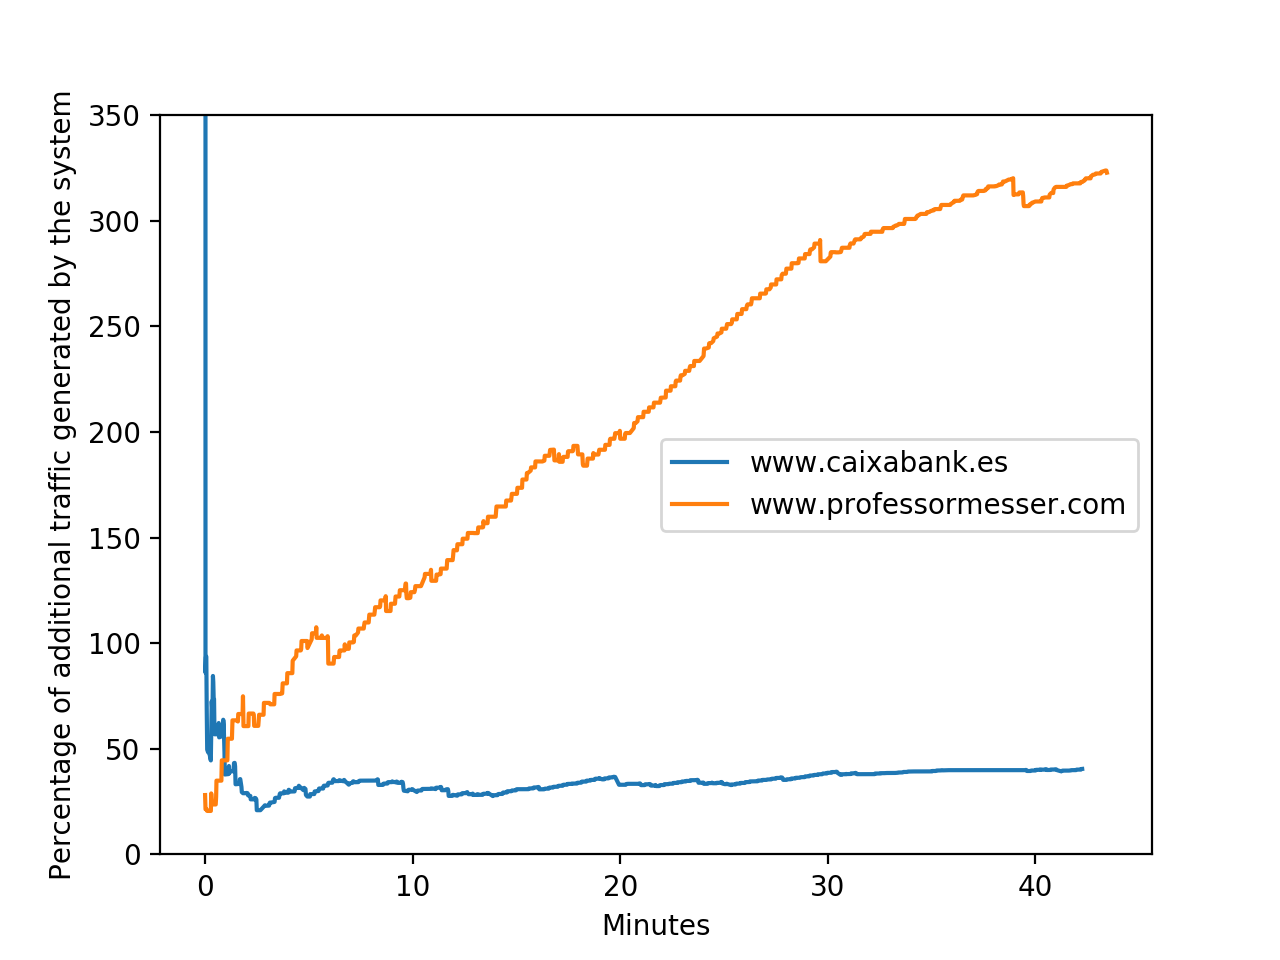
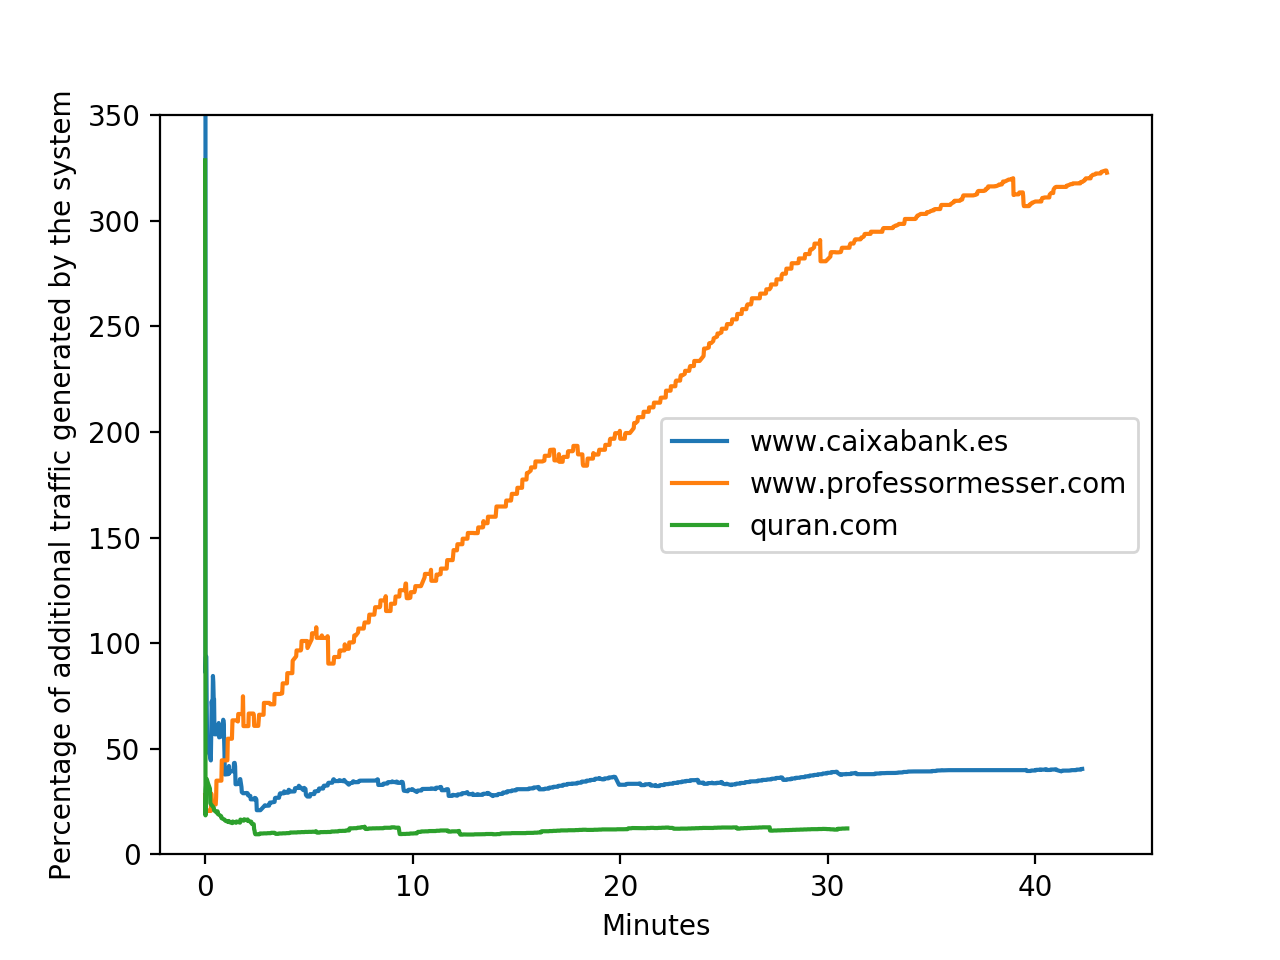
images

Changed region(s): [[0.5, 0.4375, 0.875, 0.5938], [0.1562, 0.1875, 0.6562, 0.875]]

diff --git a/dissertation/scripts/generate_graphs.py b/dissertation/scripts/generate_graphs.py
@@ -7,30 +7,36 @@ OUTPUT_DIR = '../imgs'
 OUTPUT_FILE = '/netword_usage_plot.png'
 
 files = {
-    'caixabank': 'www.caixabank.es',
-    'professormesser': 'www.professormesser.com',
-    'quran': 'quran.com',
-    'libertatea': 'www.libertatea.ro',
+    'caixabank_fixed_long': 'www.caixabank.es',
+    'professormesser_fixed_long': 'www.professormesser.com',
+    'quran_fixed_long': 'quran.com',
+    'libertatea_fixed_long': 'www.libertatea.ro',
 }
 
 fig, ax = plt.subplots()
 
 for f in files:
     with open(INPUT_DIR+'/'+f, 'r') as file:
-        data = []
+        ys = []
+        xs = []
+        start = 0
         for line in file:
             if line[0:6] == 'Total:':
                 splits = line.strip().split('\t')
                 try :
-                    dpoint = float(splits[2][splits[2].index(':')+2:splits[2].index('%')])
+                    dpoint = float(splits[2][splits[2].index(':')+2:])
+                    time = float(splits[3][splits[3].index(':')+2:]) / 1000.0 / 60.0
                     if not np.isnan(dpoint):
-                        data.append(dpoint/(1.0-dpoint)*100.0)
+                        ys.append(dpoint/(1.0-dpoint)*100.0)
+                        if start == 0:
+                            start = time
+                        xs.append(time - start)
                 except :
+                    print('error')
                     pass
-        x = np.linspace(0, 0.2*len(data), len(data))
-        plt.plot(x, data, label=files[f]) 
+        plt.plot(xs, ys, label=files[f]) 
 
-plt.xlabel('Seconds')
+plt.xlabel('Minutes')
 plt.ylabel('Percentage of additional traffic generated by the system')
 plt.yscale('log')
 
@@ -38,9 +44,37 @@ ax.yaxis.set_major_formatter(ScalarFormatter())
 
 plt.legend(loc='center right')
 
-plt.xlim(0, 36)
+#plt.ylim(0,350)
 
 plt.savefig(OUTPUT_DIR + OUTPUT_FILE, dpi=200)
+
+# fig, ax = plt.subplots()
+# 
+# for f in files:
+#     with open(INPUT_DIR+'/'+f, 'r') as file:
+#         data = []
+#         for line in file:
+#             if line[0:6] == 'Total:':
+#                 splits = line.strip().split('\t')
+#                 try :
+#                     dpoint = float(splits[2][splits[2].index(':')+2:splits[2].index('%')])
+#                     if not np.isnan(dpoint):
+#                         data.append(dpoint/(1.0-dpoint)*100.0)
+#                 except :
+#                     pass
+#         x = np.linspace(0, 0.2*len(data), len(data))
+#         plt.plot(x, data, label=files[f]) 
+# 
+# plt.xlabel('Seconds')
+# plt.ylabel('Percentage of additional traffic generated by the system')
+# 
+# ax.yaxis.set_major_formatter(ScalarFormatter())
+# 
+# plt.legend(loc='center right')
+# 
+# plt.xlim(0, 36)
+# 
+# plt.savefig(OUTPUT_DIR + OUTPUT_FILE, dpi=200)
 
 
 

diff --git a/dissertation/evaluation.tex b/dissertation/evaluation.tex
@@ -346,11 +346,22 @@ Despite poor performace on these selected hosts, the work done in this paper can
 Ceixabank was used to see what an exaple of potentially such website could be, as customers of a bank would expect utmost security, especially after logging into their online services.
 Even though they may use a different subdomain after a user is logged in, it is still disappointing to see \texttt{eval} function being commonly used.
 
+% TODO about traffic and what percentage of it are reports
 
 \begin{figure}[h]
 	\centering
 	\includegraphics[width=\textwidth]{imgs/netword_usage_plot.png}
-	\caption{Percentage of bandwidth dedicated to additional traffic generated by my policymaker}
+	\includegraphics[width=\textwidth]{imgs/netword_usage_long_plot.png}
+	\caption{Percentage of bandwidth dedicated to additional traffic generated by the Policy Maker using default settings}
+	\label{standarUsage}
+\end{figure}
+
+\begin{figure}[h]
+	\centering
+	\includegraphics[width=\textwidth]{imgs/netword_usage_bypass.png}
+	\includegraphics[width=\textwidth]{imgs/netword_usage_long_bypass.png}
+	\caption{Percentage of bandwidth dedicated to additional traffic generated by the Policy Maker when bypassing Google scripts}
+	\label{bypassedUsage}
 \end{figure}
 
 

diff --git a/dissertation/scripts/generate_bypass.py b/dissertation/scripts/generate_bypass.py
@@ -4,12 +4,13 @@ import numpy as np
 
 INPUT_DIR = '../../node/run_logs'
 OUTPUT_DIR = '../imgs'
-OUTPUT_FILE = '/netword_usage_long_plot.png'
+OUTPUT_FILE = '/netword_usage_bypass.png'
 
 files = {
-    'caixabank_fixed_long': 'www.caixabank.es',
-    'professormesser_fixed_long': 'www.professormesser.com',
-    'quran_fixed_long': 'quran.com',
+    'caixabank_fixed_long_bypass': 'www.caixabank.es',
+    'professormesser_fixed_long_bypass': 'www.professormesser.com',
+    'quran_fixed_long_bypass': 'quran.com',
+    'libertatea_fixed_long_bypass': 'www.libertatea.ro',
 }
 
 fig, ax = plt.subplots()
@@ -37,14 +38,11 @@ for f in files:
 
 plt.xlabel('Minutes')
 plt.ylabel('Percentage of additional traffic generated by the system')
+plt.yscale('log')
 
 ax.yaxis.set_major_formatter(ScalarFormatter())
 
 plt.legend(loc='center right')
 
-plt.ylim(0,350)
-
 plt.savefig(OUTPUT_DIR + OUTPUT_FILE, dpi=200)
-
-
 

diff --git a/dissertation/scripts/generate_long_byapss.py b/dissertation/scripts/generate_long_byapss.py
@@ -4,12 +4,12 @@ import numpy as np
 
 INPUT_DIR = '../../node/run_logs'
 OUTPUT_DIR = '../imgs'
-OUTPUT_FILE = '/netword_usage_long_plot.png'
+OUTPUT_FILE = '/netword_usage_long_bypass.png'
 
 files = {
-    'caixabank_fixed_long': 'www.caixabank.es',
-    'professormesser_fixed_long': 'www.professormesser.com',
-    'quran_fixed_long': 'quran.com',
+    'caixabank_fixed_long_bypass': 'www.caixabank.es',
+    'professormesser_fixed_long_bypass': 'www.professormesser.com',
+    'quran_fixed_long_bypass': 'quran.com',
 }
 
 fig, ax = plt.subplots()
